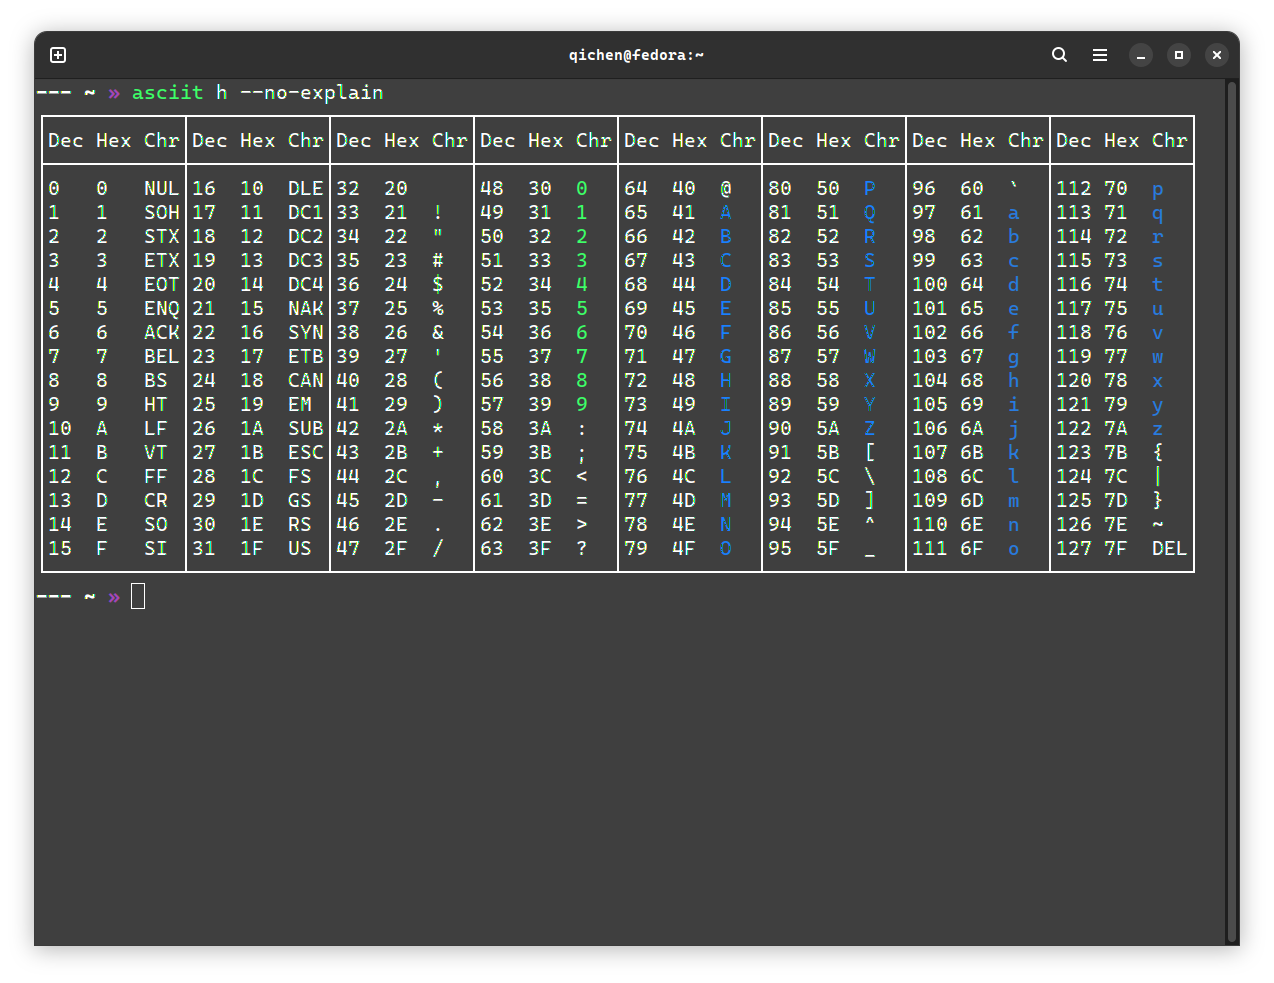
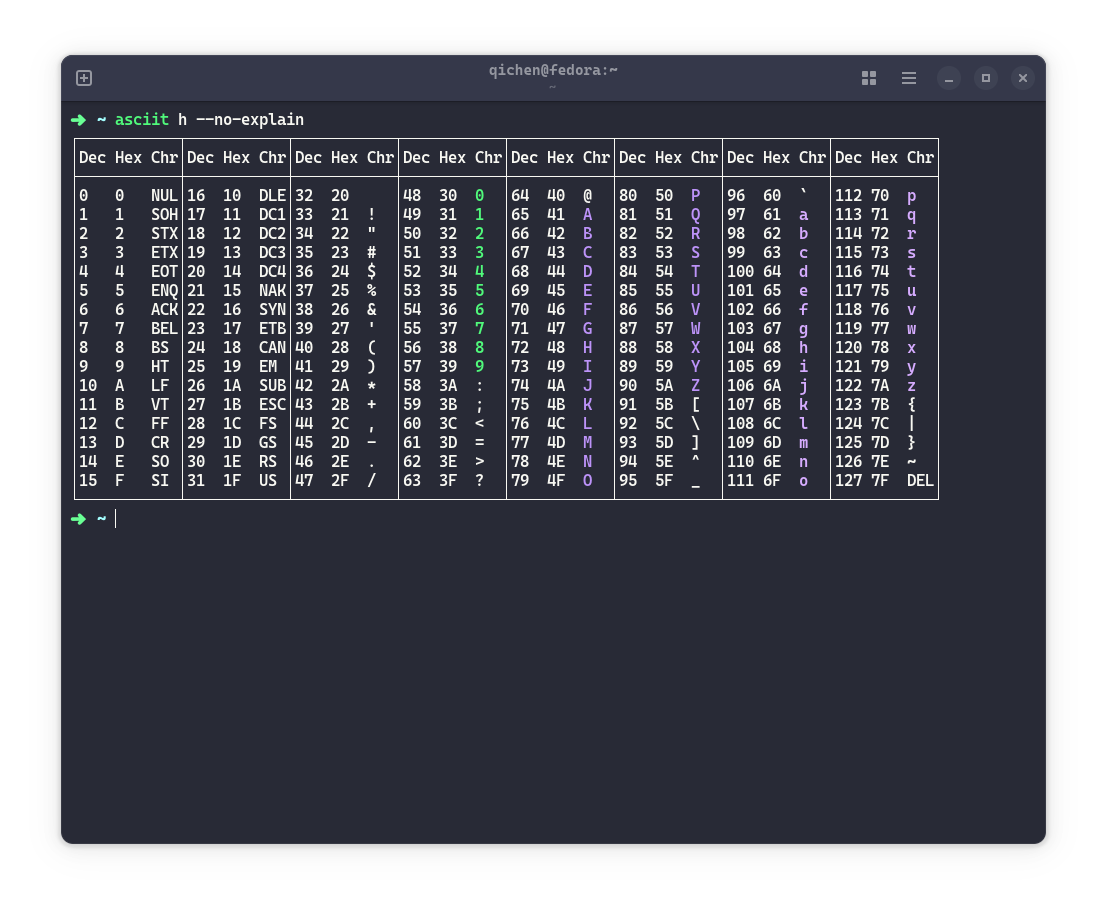
Update screenshots and format README

Changed region(s): [[0.0, 0.0307, 0.9828, 0.9835]]

diff --git a/README.md b/README.md
@@ -13,6 +13,7 @@ cargo build --release
 ## Installation
 
 - Cargo
+
 ```bash
 cargo install asciit
 ```
@@ -20,7 +21,7 @@ cargo install asciit
 - Fedora Linux:
 
 ```bash
-dnf copr enable qichen/asciit # enable the repo 
+dnf copr enable qichen/asciit # enable the repo
 dnf install asciit # install
 ```
 
@@ -41,14 +42,13 @@ cargo install --path .
 ## Screenshots & Comparison
 
 `asciit` or `asciit v`
-![UI](assets/screenshot-v.png)
+![UI](assets/screenshot.png)
 `man 7 ascii`
 ![UI](assets/man7ascii.png)
 `asciit h --no-explain`
 ![UI](assets/screenshot-h-no-explain.png)
 `ascii`
 ![UI](assets/ascii.png)
-
 
 ## Notice
 
